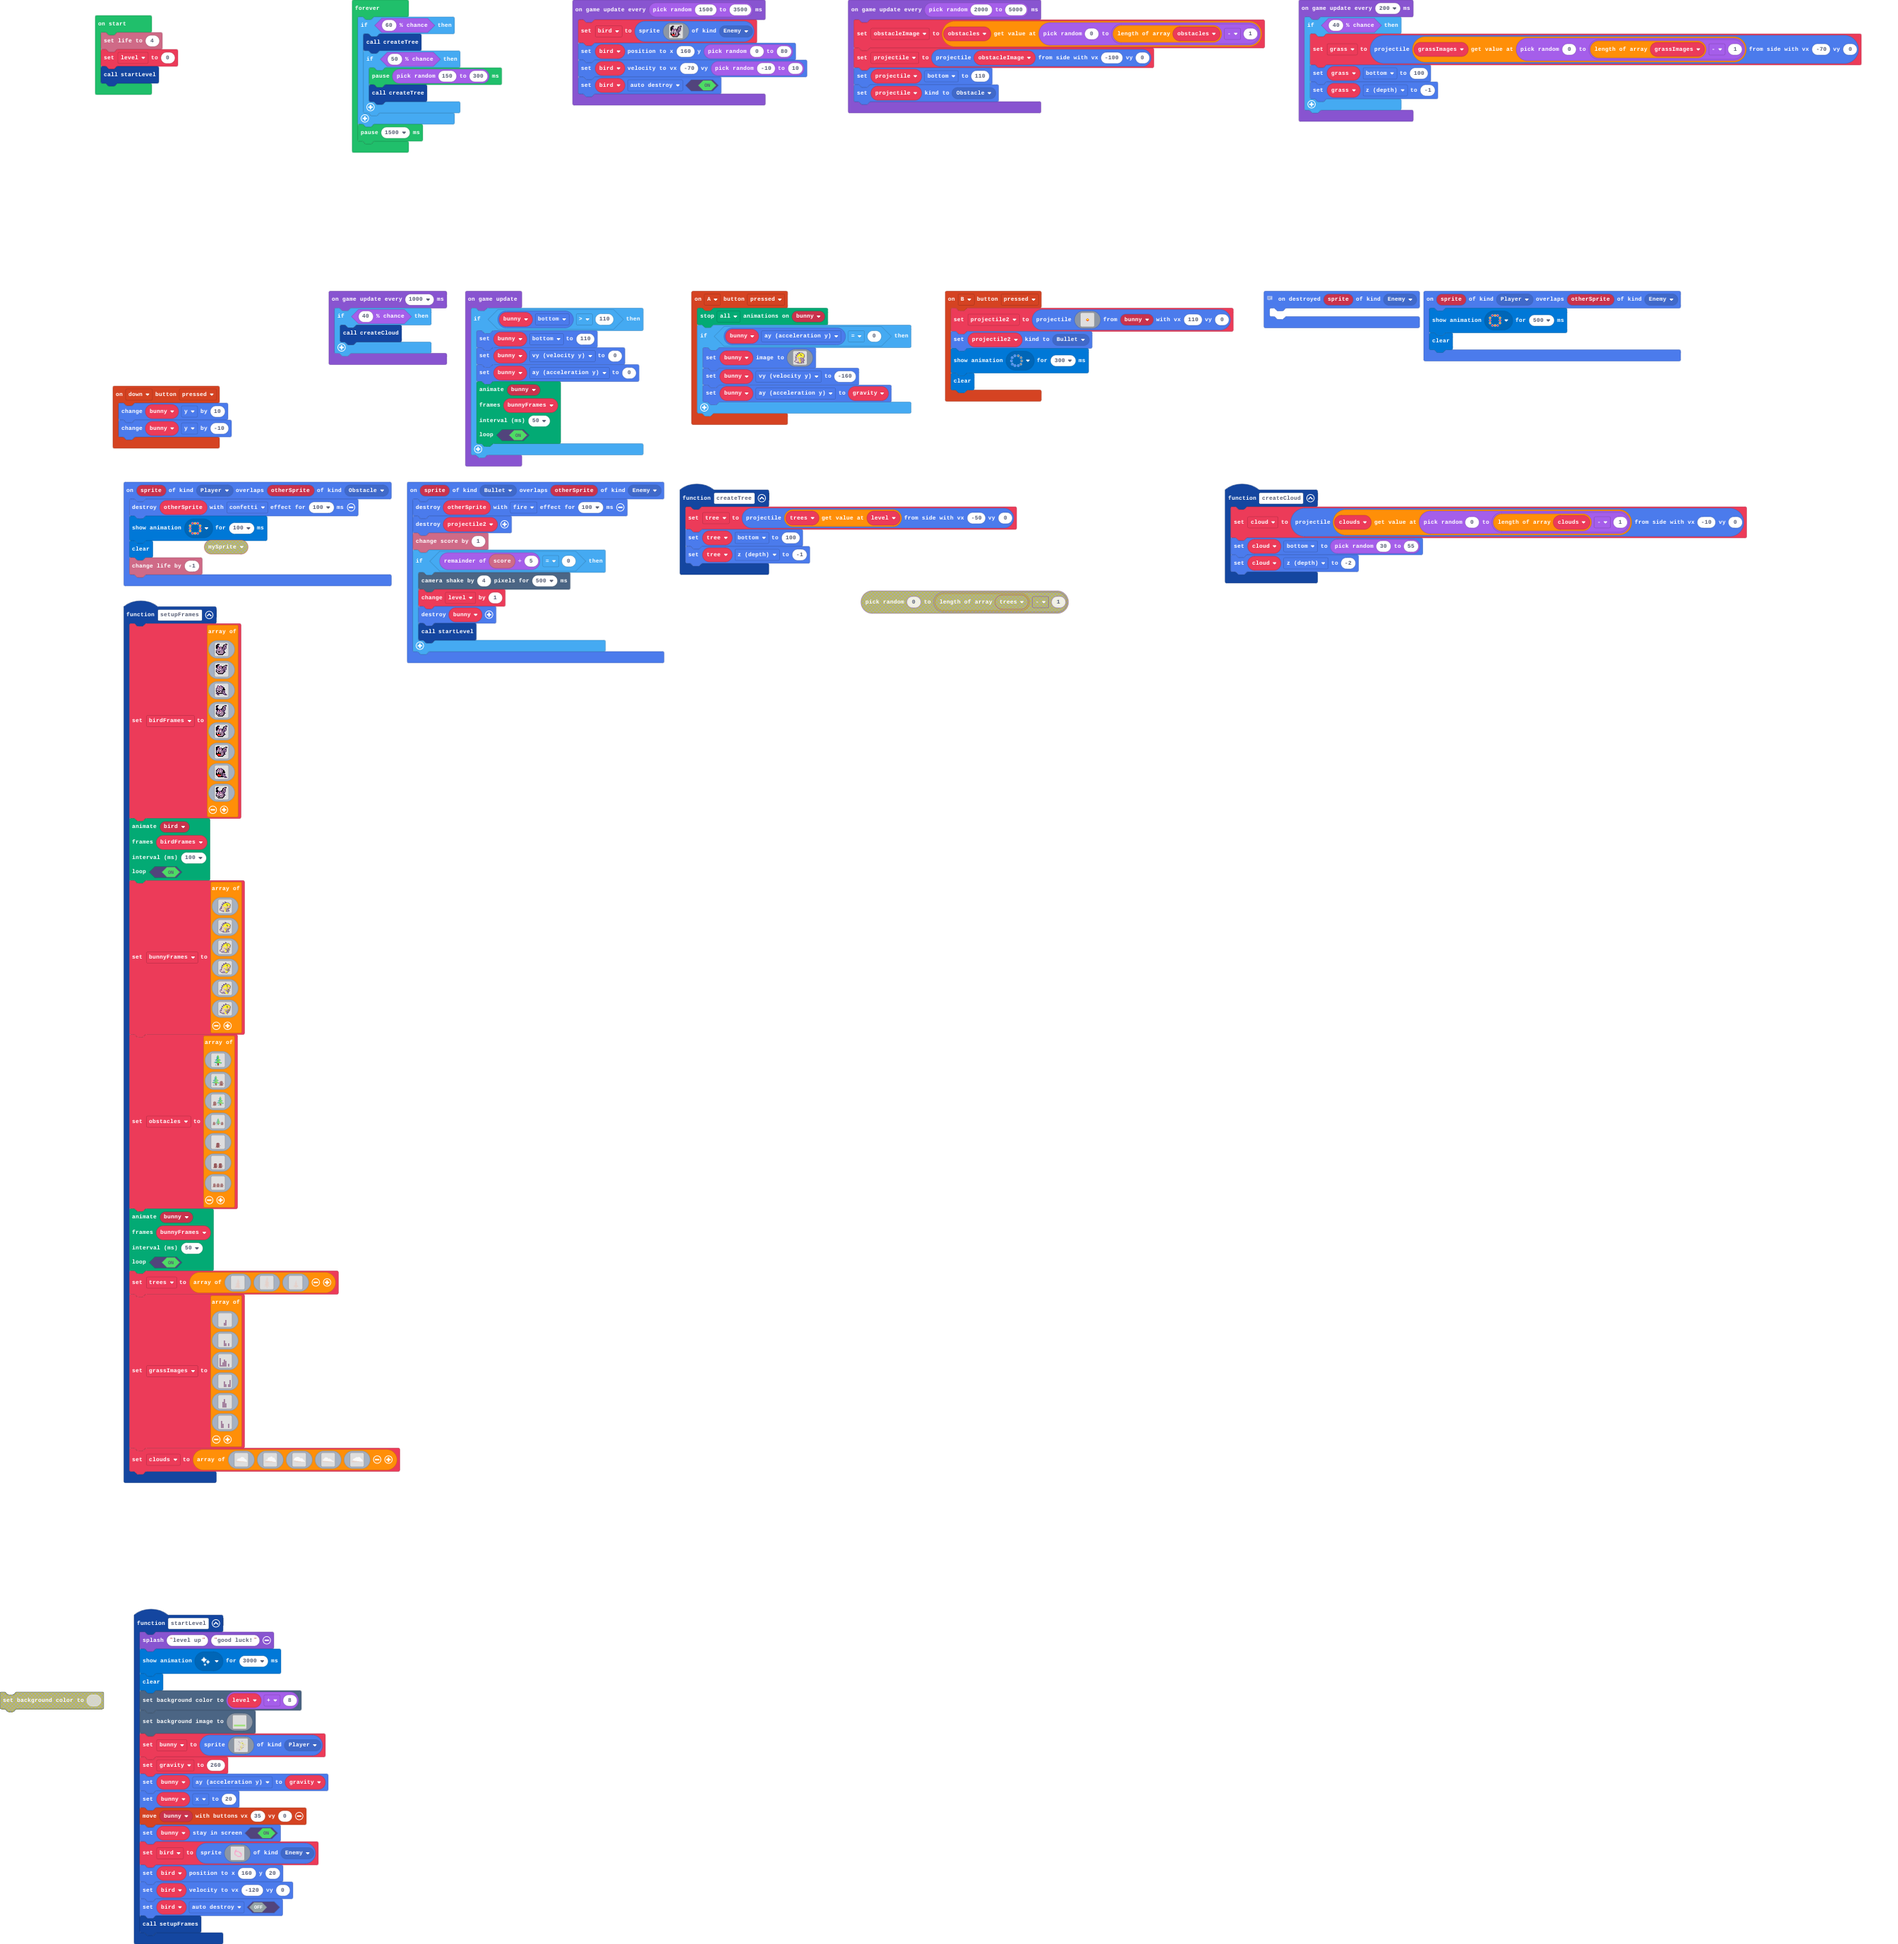
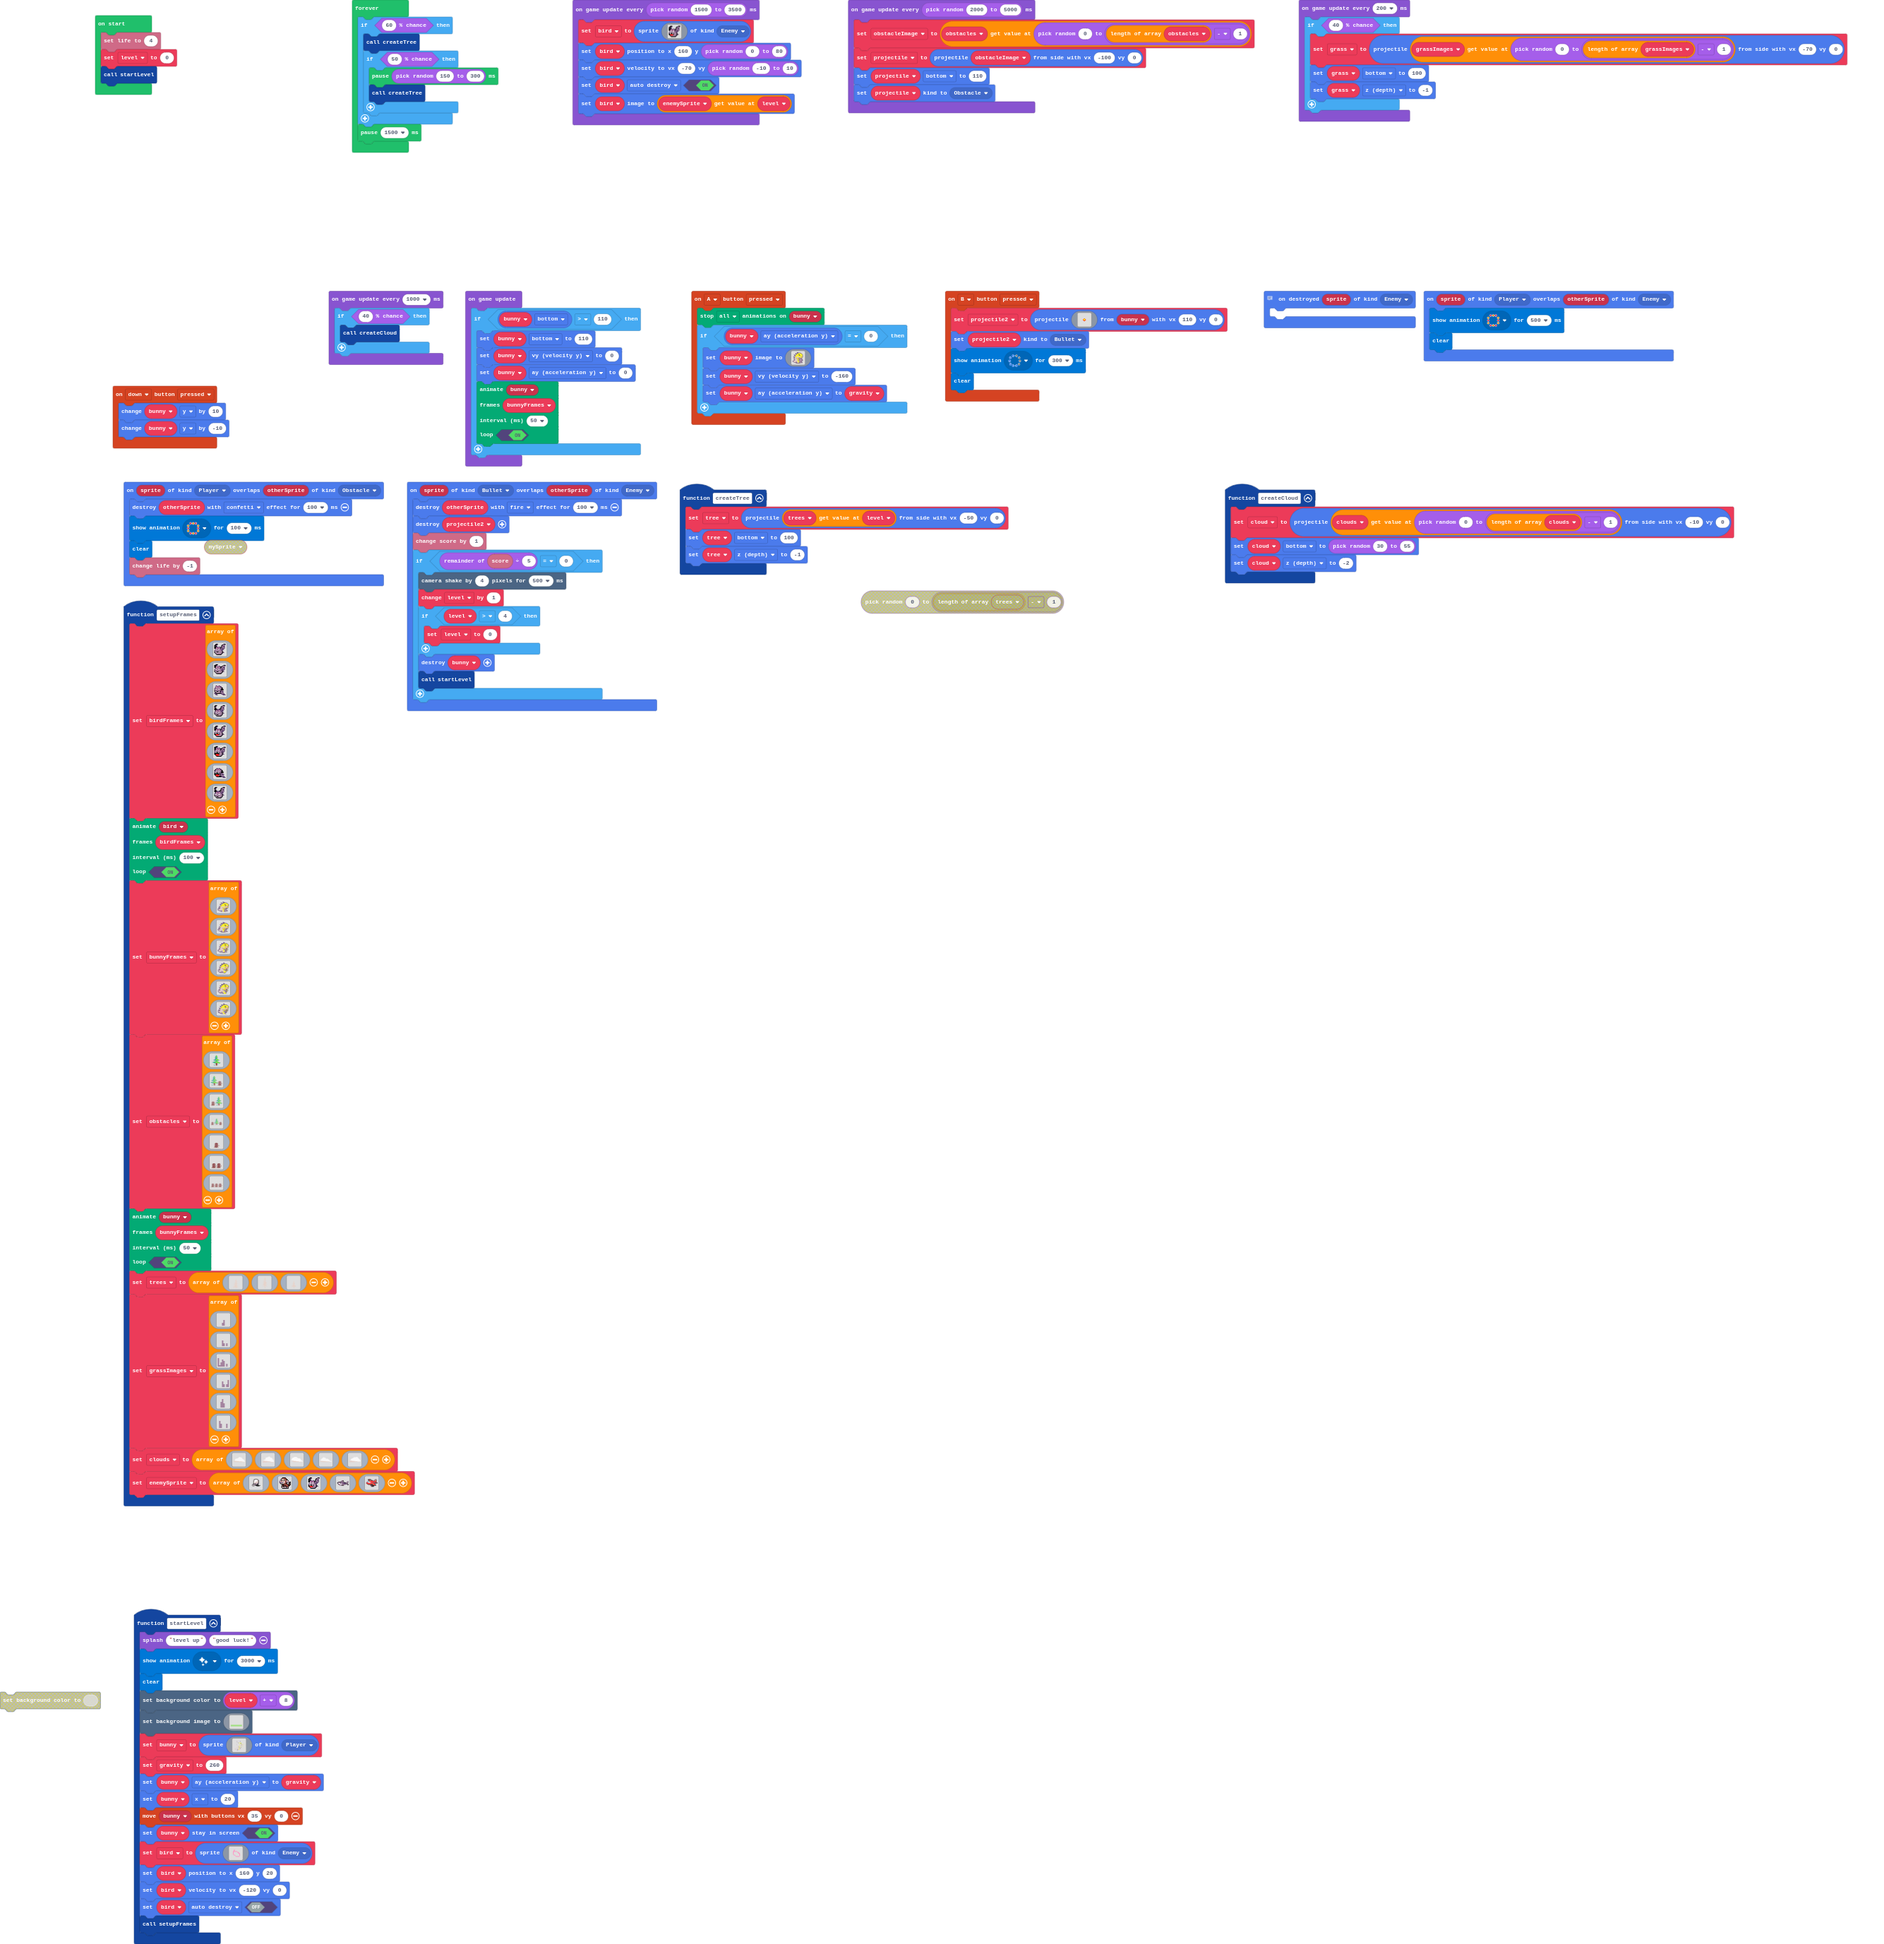
level sprites changed

diff --git a/main.ts b/main.ts
@@ -38,6 +38,9 @@ sprites.onOverlap(SpriteKind.Bullet, SpriteKind.Enemy, function (sprite, otherSp
     if (info.score() % 5 == 0) {
         scene.cameraShake(4, 500)
         level += 1
+        if (level > 4) {
+            level = 0
+        }
         bunny.destroy()
         startLevel()
     }
@@ -964,6 +967,100 @@ function setupFrames () {
         ddddddddddddddddddddddddddddddddddddd..
         dddddddddddddddddd.....................
         `]
+    enemySprite = [img`
+        ........................
+        ........................
+        ........................
+        ..........ffff..........
+        ........ff1111ff........
+        .......fb111111bf.......
+        .......f1111111dbf......
+        ......fd1111111ddf......
+        ......fd111111dddf......
+        ......fd111ddddddf......
+        ......fd111ddddddf......
+        ......fd1dddddddbf......
+        ......fd1dfbddbbff......
+        ......fbddfcdbbcf.......
+        .....ffffccddbfff.......
+        ....fcb1bbbfcffff.......
+        ....f1b1dcffffffff......
+        ....fdfdf..ffffffffff...
+        .....f.f.....ffffff.....
+        ........................
+        ........................
+        ........................
+        ........................
+        ........................
+        `, img`
+        . . . . f f f f f . . . . . . . 
+        . . . f e e e e e f . . . . . . 
+        . . f d d d d e e e f . . . . . 
+        . c d f d d f d e e f f . . . . 
+        . c d f d d f d e e d d f . . . 
+        c d e e d d d d e e b d c . . . 
+        c d d d d c d d e e b d c . f f 
+        c c c c c d d d e e f c . f e f 
+        . f d d d d d e e f f . . f e f 
+        . . f f f f f e e e e f . f e f 
+        . . . . f e e e e e e e f f e f 
+        . . . f e f f e f e e e e f f . 
+        . . . f e f f e f e e e e f . . 
+        . . . f d b f d b f f e f . . . 
+        . . . f d d c d d b b d f . . . 
+        . . . . f f f f f f f f f . . . 
+        `, img`
+        . . f f f . . . . . . . . f f f 
+        . f f c c . . . . . . f c b b c 
+        f f c c . . . . . . f c b b c . 
+        f c f c . . . . . . f b c c c . 
+        f f f c c . c c . f c b b c c . 
+        f f c 3 c c 3 c c f b c b b c . 
+        f f b 3 b c 3 b c f b c c b c . 
+        . c 1 b b b 1 b c b b c c c . . 
+        . c 1 b b b 1 b b c c c c . . . 
+        c b b b b b b b b b c c . . . . 
+        c b 1 f f 1 c b b b b f . . . . 
+        f f 1 f f 1 f b b b b f c . . . 
+        f f 2 2 2 2 f b b b b f c c . . 
+        . f 2 2 2 2 b b b b c f . . . . 
+        . . f b b b b b b c f . . . . . 
+        . . . f f f f f f f . . . . . . 
+        `, img`
+        .............ccfff..............
+        ............cddbbf..............
+        ...........cddbbf...............
+        ..........fccbbcf............ccc
+        ....ffffffccccccff.........ccbbc
+        ..ffbbbbbbbbbbbbbcfff.....cdbbc.
+        ffbbbbbbbbbcbcbbbbcccff..cddbbf.
+        fbcbbbbbffbbcbcbbbcccccfffdbbf..
+        fbbb1111ff1bcbcbbbcccccccbbbcf..
+        .fb11111111bbbbbbcccccccccbccf..
+        ..fccc33cc11bbbbccccccccfffbbcf.
+        ...fc131c111bbbcccccbdbc...fbbf.
+        ....f33c111cbbbfdddddcc.....fbbf
+        .....ff1111fbdbbfddcc........fff
+        .......cccccfbdbbfc.............
+        .............fffff..............
+        `, img`
+        ....ffffff.........ccc..
+        ....ff22ccf.......cc4f..
+        .....ffccccfff...cc44f..
+        ....cc24442222cccc442f..
+        ...c9b4422222222cc422f..
+        ..c999b2222222222222fc..
+        .c2b99111b222222222c22c.
+        c222b111992222ccccccc22f
+        f222222222222c222ccfffff
+        .f2222222222442222f.....
+        ..ff2222222cf442222f....
+        ....ffffffffff442222c...
+        .........f2cfffc2222c...
+        .........fcc2ffffffff...
+        ..........fc2ffff.......
+        ...........fffff........
+        `]
 }
 controller.down.onEvent(ControllerButtonEvent.Pressed, function () {
     bunny.y += 10
@@ -1167,6 +1264,7 @@ let grass: Sprite = null
 let projectile: Sprite = null
 let obstacleImage: Image = null
 let tree: Sprite = null
+let enemySprite: Image[] = []
 let grassImages: Image[] = []
 let trees: Image[] = []
 let obstacles: Image[] = []
@@ -1238,6 +1336,7 @@ game.onUpdateInterval(randint(1500, 3500), function () {
     bird.setPosition(160, randint(0, 80))
     bird.setVelocity(-70, randint(-10, 10))
     bird.setFlag(SpriteFlag.AutoDestroy, true)
+    bird.setImage(enemySprite[level])
 })
 game.onUpdateInterval(200, function () {
     if (Math.percentChance(40)) {
